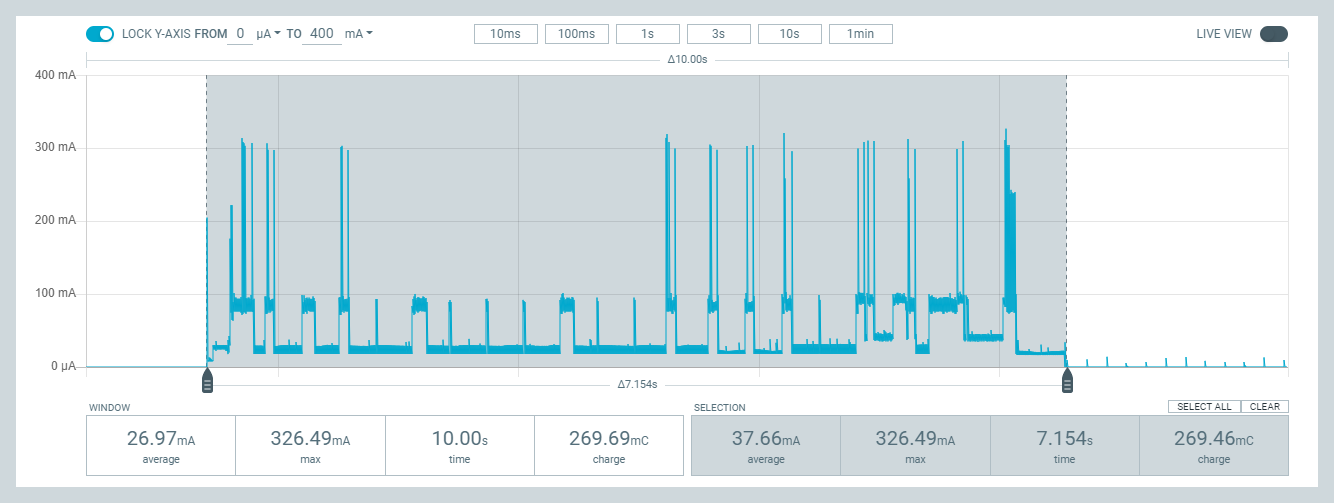
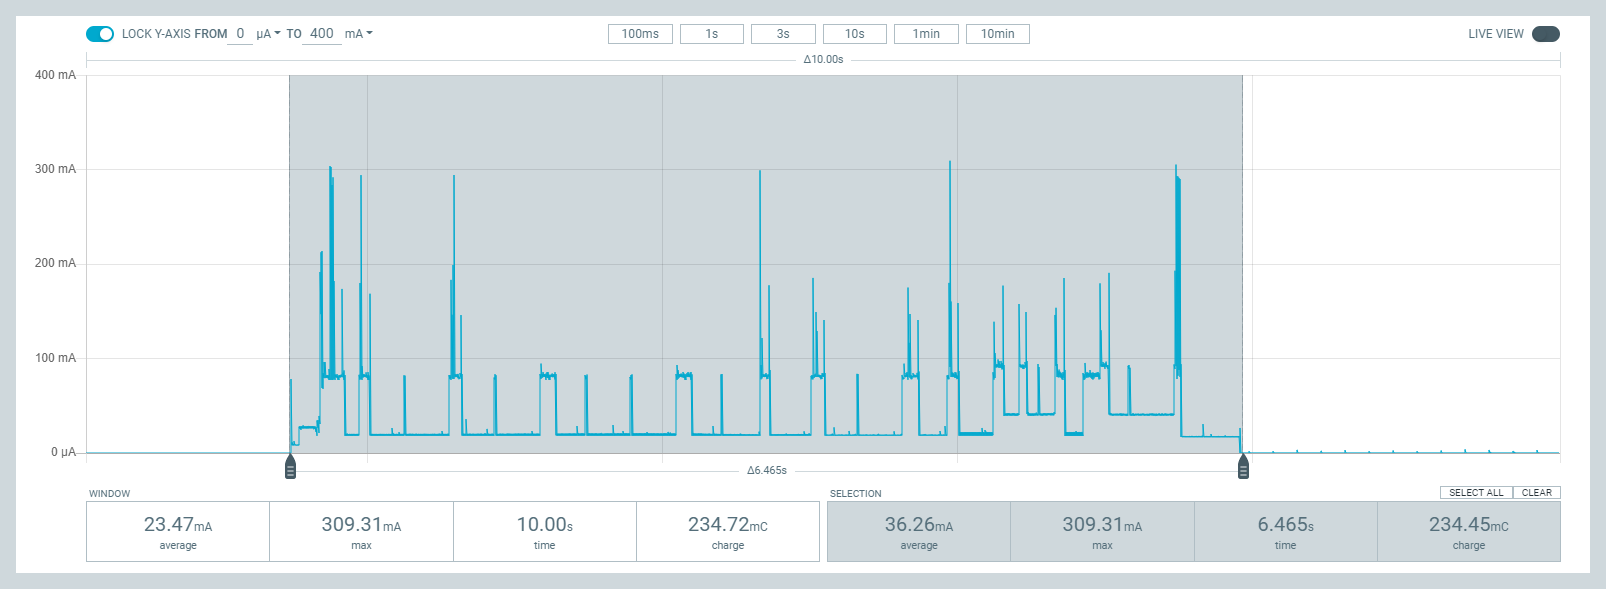
Change MQTT library

diff --git a/src/WiFi/MqttsPubClientLP/README.md b/src/WiFi/MqttsPubClientLP/README.md
@@ -34,7 +34,7 @@ flowchart LR
 ## MQTTメッセージのモニタリング
 
 ```
-$ mosquitto_sub -h test.mosquitto.org -t "dt/mqtts-pub-client/test/#" -v
+$ mosquitto_sub -h test.mosquitto.org -t "dt/mqtts-pub-client/test/#" -v -q 2
 ```
 
 ## シーケンス
@@ -44,7 +44,7 @@ $ mosquitto_sub -h test.mosquitto.org -t "dt/mqtts-pub-client/test/#" -v
 sequenceDiagram
     participant main
     participant WiFi
-    participant PubSubClient
+    participant MQTTClient
     participant StaticJsonDocument
     participant TIME
     participant ESP
@@ -63,11 +63,11 @@ sequenceDiagram
     TIME-->>main: Sync completed
 
     note right of main: Publish to MQTT server
-    main->>PubSubClient: connect()
+    main->>MQTTClient: connect()
     main->>StaticJsonDocument: Create JSON string
     StaticJsonDocument-->>main: JSON string
-    main->>PubSubClient: publish()
-    main->>PubSubClient: disconnect()
+    main->>MQTTClient: publish()
+    main->>MQTTClient: disconnect()
 
     note right of main: Stop Wi-Fi
     main->>WiFi: enableSTA(false)
@@ -81,9 +81,9 @@ sequenceDiagram
 
 | 処理 | 電気量[mC] | 電流[mA] | 時間[msec.] |
 | :--- | ---: | ---: | ---: |
-| MQTT通信 1回目（SNTPあり） | 269.46 | 37.66 | 7154 |
-| MQTT通信 2回目（SNTPなし） | 148.97 | 39.36 | 3785 |
-| ディープスリープ | 7.27 | 0.13 | 56770 |
+| MQTT通信 1回目（SNTPあり） | 234.45 | 36.26 | 6465 |
+| MQTT通信 2回目（SNTPなし） | 141.25 | 45.46 | 3107 |
+| ディープスリープ | 7.26 | 0.13 | 56710 |
 
 **全体（MQTT通信を2回）:**  
 <img src="media/1.png" width="600">
